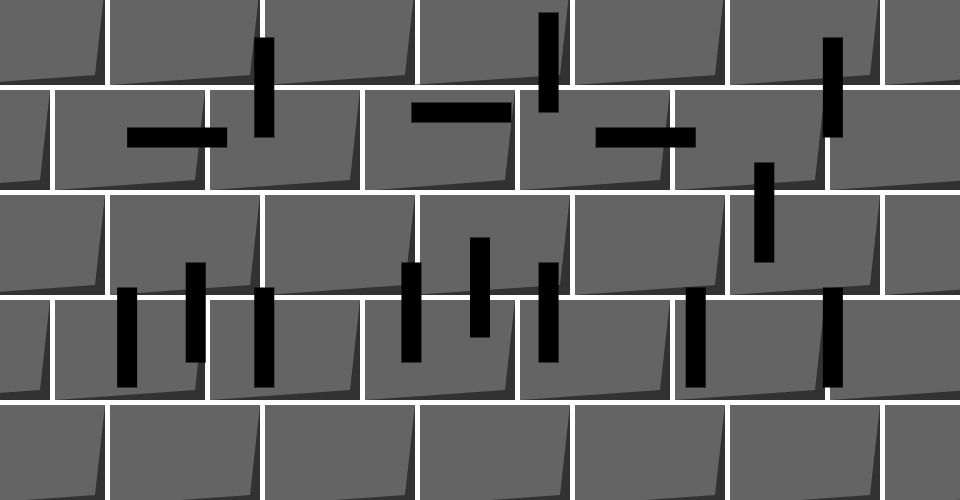
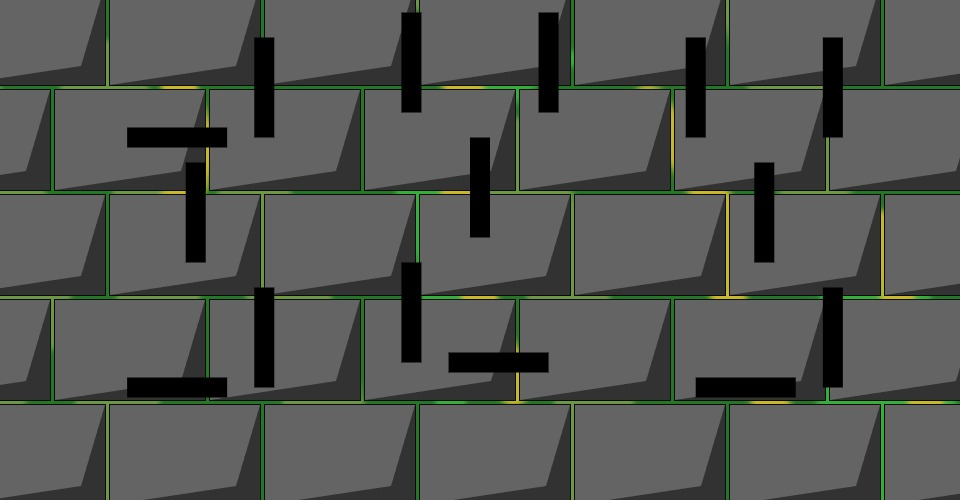
DungeonBrick01

Changed region(s): [[0.0, 0.0, 1.0, 1.0], [0.9688, 0.99, 1.0, 1.0]]

diff --git a/clock.js b/clock.js
@@ -1,6 +1,12 @@
 /*
  * use p5.js to draw a clock on a 960x500 canvas
  */
+let img;
+
+function preload() {
+  img = loadImage('DungeonGreen.png')
+}
+
 function draw_clock(obj) {
   // draw your own clock here based on the values of obj:
   //    obj.hours goes from 0-23
@@ -11,6 +17,11 @@ function draw_clock(obj) {
   //        < 0 if no alarm is set
   //        = 0 if the alarm is currently going off
   //        > 0 --> the number of seconds until alarm should go off
+  let seconds = obj.seconds
+  let milliseconds = obj.millis
+  let exactSeconds = seconds + milliseconds / 1000
+  
+  let smoothSecondsDegrees = map(exactSeconds, 0, 59.999, 0, 360)
   let secondsToDegrees = map(obj.seconds, 0, 59, 0, 360)
   let minutesToDegrees = map(obj.minutes, 0, 59, 0, 360)
   let hoursToDegrees = map(obj.hours, 0, 23, 0, 360)
@@ -22,14 +33,69 @@ function draw_clock(obj) {
   let hoursToColour = map(obj.hours, 0, 23, 100, 255)
   let REhoursToColour = map(obj.hours, 0, 23, 255, 100)
 
-  background(255, 255, 255)
+  let shadowHoursX = map(obj.hours, 0, 12, 0, 140)
+  let shadowHoursY = map(obj.hours, 0, 12, 0, 90)
+  let shadowHoursNegX = map(obj.hours, 13, 23, 140, 0)
+  let shadowHoursNegY = map(obj.hours, 13, 23, 90, 0)
+
+  background(255)
   noStroke()
   angleMode(DEGREES)
   
   push()
+  rotate(smoothSecondsDegrees) //moving wallpaper
+  image(img, -1100, -1100)
+  pop()
+
+  fill(25, 50)
+  rect(0, 0, 960, 500)
+
+  push()
   translate(-50, -20)
+
+  fill(10)
+  rect(4, 4, 152, 102) // mortar
+  rect(159, 4, 152, 102)
+  rect(314, 4, 152, 102)
+  rect(469, 4, 152, 102)
+  rect(624, 4, 152, 102)
+  rect(779, 4, 152, 102)
+  rect(934, 4, 152, 102)
+
+  rect(-51, 109, 152, 102)
+  rect(104, 109, 152, 102)
+  rect(259, 109, 152, 102)
+  rect(414, 109, 152, 102)
+  rect(569, 109, 152, 102)
+  rect(724, 109, 152, 102)
+  rect(879, 109, 152, 102)
+
+  rect(4, 214, 152, 102)
+  rect(159, 214, 152, 102)
+  rect(314, 214, 152, 102)
+  rect(469, 214, 152, 102)
+  rect(624, 214, 152, 102)
+  rect(779, 214, 152, 102)
+  rect(934, 214, 152, 102)
+
+  rect(-51, 319, 152, 102)
+  rect(104, 319, 152, 102)
+  rect(259, 319, 152, 102)
+  rect(414, 319, 152, 102)
+  rect(569, 319, 152, 102)
+  rect(724, 319, 152, 102)
+  rect(879, 319, 152, 102)
+
+  rect(4, 424, 152, 102)
+  rect(159, 424, 152, 102)
+  rect(314, 424, 152, 102)
+  rect(469, 424, 152, 102)
+  rect(624, 424, 152, 102)
+  rect(779, 424, 152, 102)
+  rect(934, 424, 152, 102)
+
   fill(100)
-  rect(5, 5, 150, 100)
+  rect(5, 5, 150, 100) //bricks
   rect(160, 5, 150, 100)
   rect(315, 5, 150, 100)
   rect(470, 5, 150, 100)
@@ -70,51 +136,94 @@ function draw_clock(obj) {
   rect(935, 425, 150, 100)
 
   fill(50)
-  quad(155, 5, 155, 105, 5, 105, 145, 95)
-  quad(310, 5, 310, 105, 160, 105, 300, 95)
-  quad(465, 5, 465, 105, 315, 105, 455, 95)
-  quad(620, 5, 620, 105, 460, 105, 610, 95)
-  quad(775, 5, 775, 105, 625, 105, 765, 95)
-  quad(930, 5, 930, 105, 780, 105, 920, 95)
-  quad(1085, 5, 1085, 105, 935, 105, 1075, 95)
+  if(obj.hours < 13) { //shadows shrink
+  quad(155, 5, 155, 105, 5, 105, 5+shadowHoursX, 5+shadowHoursY)
+  quad(310, 5, 310, 105, 160, 105, 160+shadowHoursX, 5+shadowHoursY)
+  quad(465, 5, 465, 105, 315, 105, 315+shadowHoursX, 5+shadowHoursY)
+  quad(620, 5, 620, 105, 470, 105, 470+shadowHoursX, 5+shadowHoursY)
+  quad(775, 5, 775, 105, 625, 105, 625+shadowHoursX, 5+shadowHoursY)
+  quad(930, 5, 930, 105, 780, 105, 780+shadowHoursX, 5+shadowHoursY)
+  quad(1085, 5, 1085, 105, 935, 105, 935+shadowHoursX, 5+shadowHoursY)
 
-  quad(100, 110, 100, 210, -50, 210, 90, 200)
-  quad(255, 110, 255, 210, 105, 210, 245, 200)
-  quad(410, 110, 410, 210, 260, 210, 400, 200)
-  quad(565, 110, 565, 210, 425, 210, 555, 200)
-  quad(720, 110, 720, 210, 570, 210, 710, 200)
-  quad(875, 110, 875, 210, 725, 210, 865, 200)
-  quad(1030, 110, 1030, 210, 880, 210, 1020, 200)
+  quad(100, 110, 100, 210, -50, 210, -50+shadowHoursX, 110+shadowHoursY)
+  quad(255, 110, 255, 210, 105, 210, 105+shadowHoursX, 110+shadowHoursY)
+  quad(410, 110, 410, 210, 260, 210, 260+shadowHoursX, 110+shadowHoursY)
+  quad(565, 110, 565, 210, 415, 210, 415+shadowHoursX, 110+shadowHoursY)
+  quad(720, 110, 720, 210, 570, 210, 570+shadowHoursX, 110+shadowHoursY)
+  quad(875, 110, 875, 210, 725, 210, 725+shadowHoursX, 110+shadowHoursY)
+  quad(1030, 110, 1030, 210, 880, 210, 880+shadowHoursX, 110+shadowHoursY)
 
-  quad(155, 215, 155, 315, 5, 315, 145, 305)
-  quad(310, 215, 310, 315, 160, 315, 300, 305)
-  quad(465, 215, 465, 315, 315, 315, 455, 305)
-  quad(620, 215, 620, 315, 460, 315, 610, 305)
-  quad(775, 215, 775, 315, 625, 315, 765, 305)
-  quad(930, 215, 930, 315, 780, 315, 920, 305)
-  quad(1085, 215, 1085, 315, 935, 315, 1075, 305)
+  quad(155, 215, 155, 315, 5, 315, 5+shadowHoursX, 215+shadowHoursY)
+  quad(310, 215, 310, 315, 160, 315, 160+shadowHoursX, 215+shadowHoursY)
+  quad(465, 215, 465, 315, 315, 315, 315+shadowHoursX, 215+shadowHoursY)
+  quad(620, 215, 620, 315, 470, 315, 470+shadowHoursX, 215+shadowHoursY)
+  quad(775, 215, 775, 315, 625, 315, 625+shadowHoursX, 215+shadowHoursY)
+  quad(930, 215, 930, 315, 780, 315, 780+shadowHoursX, 215+shadowHoursY)
+  quad(1085, 215, 1085, 315, 935, 315, 935+shadowHoursX, 215+shadowHoursY)
 
-  quad(100, 320, 100, 420, -50, 420, 90, 410)
-  quad(255, 320, 255, 420, 105, 420, 245, 410)
-  quad(410, 320, 410, 420, 260, 420, 400, 410)
-  quad(565, 320, 565, 420, 415, 420, 555, 410)
-  quad(720, 320, 720, 420, 570, 420, 710, 410)
-  quad(875, 320, 875, 420, 725, 420, 865, 410)
-  quad(1030, 320, 1030, 420, 880, 420, 1020, 410)
+  quad(100, 320, 100, 420, -50, 420, -50+shadowHoursX, 320+shadowHoursY)
+  quad(255, 320, 255, 420, 105, 420, 105+shadowHoursX, 320+shadowHoursY)
+  quad(410, 320, 410, 420, 260, 420, 260+shadowHoursX, 320+shadowHoursY)
+  quad(565, 320, 565, 420, 415, 420, 415+shadowHoursX, 320+shadowHoursY)
+  quad(720, 320, 720, 420, 570, 420, 570+shadowHoursX, 320+shadowHoursY)
+  quad(875, 320, 875, 420, 725, 420, 725+shadowHoursX, 320+shadowHoursY)
+  quad(1030, 320, 1030, 420, 880, 420, 880+shadowHoursX, 320+shadowHoursY)
 
-  quad(155, 425, 155, 525, 5, 525, 145, 515)
-  quad(310, 425, 310, 525, 160, 525, 300, 515)
-  quad(465, 425, 465, 525, 315, 525, 455, 515)
-  quad(620, 425, 620, 525, 470, 525, 610, 515)
-  quad(775, 425, 775, 525, 625, 525, 765, 515)
-  quad(930, 425, 930, 525, 780, 525, 920, 515)
-  quad(1085, 425, 1085, 525, 935, 525, 1075, 515)
+  quad(155, 425, 155, 525, 5, 525, 5+shadowHoursX, 425+shadowHoursY)
+  quad(310, 425, 310, 525, 160, 525, 160+shadowHoursX, 425+shadowHoursY)
+  quad(465, 425, 465, 525, 315, 525, 315+shadowHoursX, 425+shadowHoursY)
+  quad(620, 425, 620, 525, 470, 525, 470+shadowHoursX, 425+shadowHoursY)
+  quad(775, 425, 775, 525, 625, 525, 625+shadowHoursX, 425+shadowHoursY)
+  quad(930, 425, 930, 525, 780, 525, 780+shadowHoursX, 425+shadowHoursY)
+  quad(1085, 425, 1085, 525, 935, 525, 935+shadowHoursX, 425+shadowHoursY)
+  } else { //shadows lengthen
+  quad(155, 5, 155, 105, 5, 105, 5+shadowHoursNegX, 5+shadowHoursNegY)
+  quad(310, 5, 310, 105, 160, 105, 160+shadowHoursNegX, 5+shadowHoursNegY)
+  quad(465, 5, 465, 105, 315, 105, 315+shadowHoursNegX, 5+shadowHoursNegY)
+  quad(620, 5, 620, 105, 470, 105, 470+shadowHoursNegX, 5+shadowHoursNegY)
+  quad(775, 5, 775, 105, 625, 105, 625+shadowHoursNegX, 5+shadowHoursNegY)
+  quad(930, 5, 930, 105, 780, 105, 780+shadowHoursNegX, 5+shadowHoursNegY)
+  quad(1085, 5, 1085, 105, 935, 105, 935+shadowHoursNegX, 5+shadowHoursNegY)
+  
+  quad(100, 110, 100, 210, -50, 210, -50+shadowHoursNegX, 110+shadowHoursNegY)
+  quad(255, 110, 255, 210, 105, 210, 105+shadowHoursNegX, 110+shadowHoursNegY)
+  quad(410, 110, 410, 210, 260, 210, 260+shadowHoursNegX, 110+shadowHoursNegY)
+  quad(565, 110, 565, 210, 415, 210, 415+shadowHoursNegX, 110+shadowHoursNegY)
+  quad(720, 110, 720, 210, 570, 210, 570+shadowHoursNegX, 110+shadowHoursNegY)
+  quad(875, 110, 875, 210, 725, 210, 725+shadowHoursNegX, 110+shadowHoursNegY)
+  quad(1030, 110, 1030, 210, 880, 210, 880+shadowHoursNegX, 110+shadowHoursNegY)
+  
+  quad(155, 215, 155, 315, 5, 315, 5+shadowHoursNegX, 215+shadowHoursNegY)
+  quad(310, 215, 310, 315, 160, 315, 160+shadowHoursNegX, 215+shadowHoursNegY)
+  quad(465, 215, 465, 315, 315, 315, 315+shadowHoursNegX, 215+shadowHoursNegY)
+  quad(620, 215, 620, 315, 470, 315, 470+shadowHoursNegX, 215+shadowHoursNegY)
+  quad(775, 215, 775, 315, 625, 315, 625+shadowHoursNegX, 215+shadowHoursNegY)
+  quad(930, 215, 930, 315, 780, 315, 780+shadowHoursNegX, 215+shadowHoursNegY)
+  quad(1085, 215, 1085, 315, 935, 315, 935+shadowHoursNegX, 215+shadowHoursNegY)
+  
+  quad(100, 320, 100, 420, -50, 420, -50+shadowHoursNegX, 320+shadowHoursNegY)
+  quad(255, 320, 255, 420, 105, 420, 105+shadowHoursNegX, 320+shadowHoursNegY)
+  quad(410, 320, 410, 420, 260, 420, 260+shadowHoursNegX, 320+shadowHoursNegY)
+  quad(565, 320, 565, 420, 415, 420, 415+shadowHoursNegX, 320+shadowHoursNegY)
+  quad(720, 320, 720, 420, 570, 420, 570+shadowHoursNegX, 320+shadowHoursNegY)
+  quad(875, 320, 875, 420, 725, 420, 725+shadowHoursNegX, 320+shadowHoursNegY)
+  quad(1030, 320, 1030, 420, 880, 420, 880+shadowHoursNegX, 320+shadowHoursNegY)
+  
+  quad(155, 425, 155, 525, 5, 525, 5+shadowHoursNegX, 425+shadowHoursNegY)
+  quad(310, 425, 310, 525, 160, 525, 160+shadowHoursNegX, 425+shadowHoursNegY)
+  quad(465, 425, 465, 525, 315, 525, 315+shadowHoursNegX, 425+shadowHoursNegY)
+  quad(620, 425, 620, 525, 470, 525, 470+shadowHoursNegX, 425+shadowHoursNegY)
+  quad(775, 425, 775, 525, 625, 525, 625+shadowHoursNegX, 425+shadowHoursNegY)
+  quad(930, 425, 930, 525, 780, 525, 780+shadowHoursNegX, 425+shadowHoursNegY)
+  quad(1085, 425, 1085, 525, 935, 525, 935+shadowHoursNegX, 425+shadowHoursNegY)
+  }
   pop()
-
+  
   fill(0, 0, 0)
-  text(obj.seconds, 800, 50) // for looking at
+  //text(obj.seconds, 800, 50) // for looking at
   //text(obj.minutes, 500, 50)
   //text(obj.hours, 200, 50)
+  //text(exactSeconds, 800, 50)
 
   push() // HOURS
   translate(127.142857, 137.5)

diff --git a/README.md b/README.md
@@ -33,3 +33,6 @@ Clock03:
 
 DungeonBrick00:
     trying out different themes to my clock. by drawing rects and quad i made a brick wall effect with shadows on each brick
+
+DungeonBrick01:
+    made the quads over the bricks shrink and lengthen with the hours. done by splitting obj.hours in half with four maps, two counting from 0-12 and two from 13-23. added a dynamic backdrop behind the brickss with a rotating png. the png rotates smoothly from the exactSeconds variable (seconds+milliseconds/1000).
